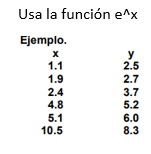
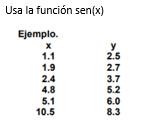
lineal con funcion agregado

diff --git a/metodos/lineal_con_funcion.py b/metodos/lineal_con_funcion.py
@@ -9,6 +9,7 @@ class Lineal_con_funcion:
         selectProblem = randint(1, 2)
         self.x = np.array([1.1, 1.9, 2.4, 4.8, 5.1, 10.5])
         self.y = np.array([2.5, 2.7, 3.7, 5.2, 6.0, 8.3])
+        self.fx = np.sin(np.deg2rad(x))
         self.problemImage = "Lineal_con_funcion_1.png"
 
     @staticmethod
@@ -20,21 +21,38 @@ class Lineal_con_funcion:
         return "Lineal con funcion"
 
     def solve(self):
-        x = self.x
-        y = self.y
-        A = np.vstack([x, np.ones(len(x))]).T
-        m, c = np.linalg.lstsq(A, y, rcond=None)[0]
-        c = c*np.exp(c)
-        return m, c
+        self.x = x
+        self.y = y
+        self.fx = fx
+        n = len(x)
+        sum_x = sum(x)
+        sum_squared_x = sum(i*i for i in x)
+        sum_fx_and_x = sum(a*b for a,b in zip(x,fx))
+
+        sum_y = sum(y)
+        sum_squared_y = sum(i*i for i in x)
+        sum_fx_and_y = sum(a*b for a,b in zip(y,fx))
+
+        sum_xy = sum(a * b for a,b in zip(x,y))
+
+        sum_fx = sum(fx)
+        sum_squared_fx = sum(i*i for i in fx)
+
+        a = np.array([[n,sum_x,sum_fx],[sum_x,sum_squared_x,sum_fx_and_x],
+                    [sum_fx,sum_fx_and_x, sum_squared_fx]])
+        b = np.array([sum_y,sum_xy, sum_fx_and_y])
+
+        first, second,third = np.linalg.solve(a,b)
+        return first, second,third
 
     # override this method to generate two anwsers per option
     def generatePossibleSolutions(self, standard_deviation=0.5):
-        a, b = self.solve()
+        a, b, c = self.solve()
 
         fake_solutions = 3
 
         rng = np.random.default_rng()
-        s = rng.normal(a, standard_deviation, size=(fake_solutions, 2))
-        s = np.append(s, [[a, b]], axis=0)
+        s = rng.normal(a, standard_deviation, size=(fake_solutions, 3))
+        s = np.append(s, [[a, b, c]], axis=0)
         rng.shuffle(s)
         return s

diff --git a/metodos/euler_adelante.py b/metodos/euler_adelante.py
@@ -23,9 +23,6 @@ class Euler_Adelante(Metodo_Padre):
     def methodName():
         return "Euler hacia adelante"
 
-    def f(self, t, y):
-        func = t*exp(3*t)-2*y
-        return func
 
     def solve(self):
         def f( t, y):
